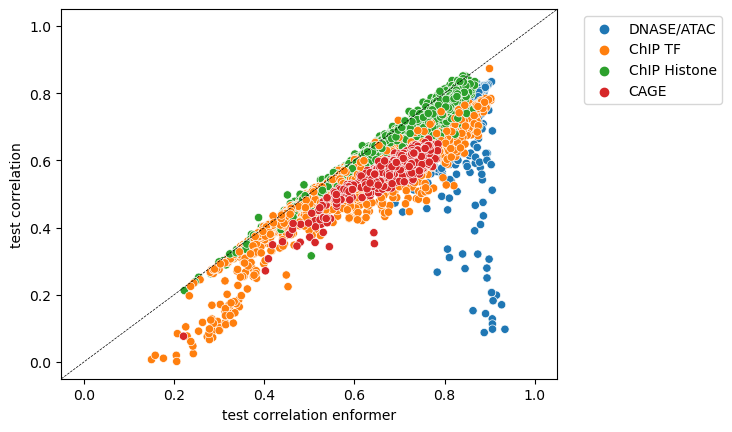
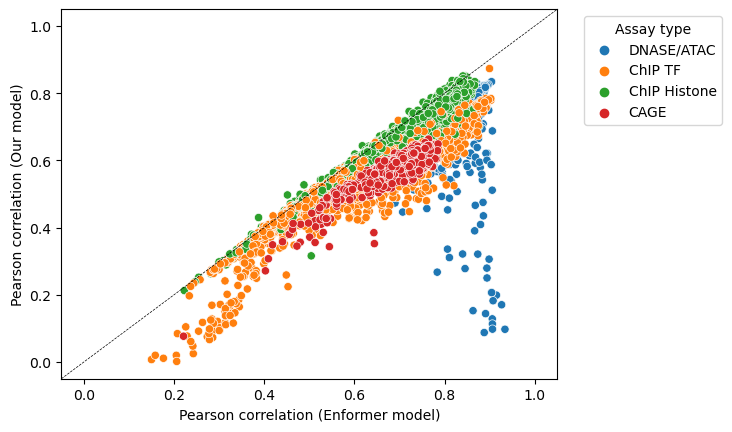
update figure

diff --git a/plot_tracks_paper/plot_enformerpytorch_dnnhead.py b/plot_tracks_paper/plot_enformerpytorch_dnnhead.py
@@ -4,11 +4,18 @@ import seaborn as sns
 import numpy as np
 import kipoiseq
 from kipoiseq import Interval
+import pytorch_lightning as pl
+import torch
+import torch.nn as nn
 import joblib
 import gzip
 import pyfaidx
 import pandas as pd
 import matplotlib as mpl
+
+device = torch.device('cuda' if torch.cuda.is_available() else 'cpu')
+print('Using device (set to GPU if available):', device)
+print(f'torch.cuda_is_available(): {torch.cuda.is_available()}\n')
 
 ### Predictions with enformer-pytorch model
 df_targets = pd.read_csv('/exports/humgen/idenhond/data/Basenji/human-targets.txt', sep = '\t')
@@ -16,13 +23,13 @@ print(df_targets.head(10))
 
 print(f'predicting with Enformer pytorch model')
 
-enformer = Enformer.from_pretrained('EleutherAI/enformer-official-rough')
+enformer = Enformer.from_pretrained('EleutherAI/enformer-official-rough') # ADD OWN MODEL
 filter_train = lambda df: df
 
 with open('seq.bed', 'w') as f:
   line = ['chr11', '35082742', '35197430']
   f.write('\t'.join(line))
- 
+
 ds = GenomeIntervalDataset(
     bed_file = './seq.bed',                       # bed file - columns 0, 1, 2 must be <chromosome>, <start position>, <end position>
     fasta_file = '/exports/humgen/idenhond/genomes/hg38.ml.fa',                        # path to fasta file
@@ -40,6 +47,80 @@ ds = GenomeIntervalDataset(
         # etc etc
     }
 )
+
+# GET EMBEDDINGS FROM THIS SEQUENCE WITH PRETRAINED MODEL
+seq = ds[0] # (196608,)
+print(seq.shape)
+pred, emb = enformer(seq, return_embeddings = True, head = 'human')
+print(emb.shape)
+
+# GET PREDICTIONS WITH DNN HEAD MODEL
+class model(pl.LightningModule):
+	def __init__(self):
+		# define model
+		super(model, self).__init__()
+		self.linear = nn.Linear(in_features = 3072, out_features = 5313, bias = True)
+		self.softplus = nn.Softplus(beta = 1, threshold = 20)	# default values for nn.Softplus()
+		self.lr = 1e-4
+		self.loss = nn.PoissonNLLLoss()
+		self.train_log = []
+		self.save_hyperparameters()
+
+	def forward(self, x):
+		# define forward pass
+		x = self.linear(x)
+		x = self.softplus(x)
+		return x
+
+	def configure_optimizers(self):
+		# define optimizer 
+		return torch.optim.Adam(self.parameters(), lr = self.lr)
+
+	def training_step(self, train_batch, batch_idx):
+		# define training loop steps
+		x, y = train_batch 
+		logits = self.forward(x)
+		loss = self.loss(logits, y)
+		self.log("train_loss", loss, on_epoch=True, prog_bar=True)
+		self.train_log.append(loss.cpu().detach().numpy())
+		# tb_logger = self.logger.experiment
+		# tb_logger.add_scalars("losses", {"train_loss": loss})
+		self.logger.experiment.add_scalars('loss', {'train': loss},self.global_step) 
+		return loss
+	
+	def test_step(self, batch, batch_idx):
+		x, y = batch
+		logits = self.forward(x)
+		test_loss = self.loss(logits, y)
+		self.log("test_loss", test_loss, on_epoch=True, prog_bar=True)
+		return test_loss
+
+	def validation_step(self, valid_batch, batch_idx):
+		# define validation loop steps
+		x, y = valid_batch
+		logits = self.forward(x)
+		val_loss = self.loss(logits, y)
+		self.log("val_loss", val_loss, prog_bar=True)
+		self.logger.experiment.add_scalars('loss', {'valid': val_loss},self.global_step)
+		# self.logger.experiment.add_scalars("losses", {"val_loss": val_loss})
+
+		return val_loss
+
+	def predict_step(self, batch, batch_idx):
+		x, y = batch
+		return self(x), y
+
+path = '/exports/humgen/idenhond/projects/enformer/dnn_head/dnn_head_train/model_2023-03-23 09:36:14.367136/epoch=18-step=5054-val_loss=0.8.ckpt'  # retrain dnn head, finished on 27/3
+print(path)
+model = model.load_from_checkpoint(path)
+model.eval().cuda()
+
+emb = emb.cuda()
+pred = model(emb)
+print(pred.shape)
+print(type(pred))
+pred = pred.detach().numpy().cpu()
+
 
 def plot_tracks(tracks, interval, name, height=1.5):
   fig, axes = plt.subplots(len(tracks), 1, figsize=(20, height * len(tracks)), sharex=True)
@@ -62,17 +143,17 @@ def plot_tracks(tracks, interval, name, height=1.5):
   plt.tight_layout()
   plt.savefig(f'{name}.png')
 
-seq = ds[0] # (196608,)
-print(seq.shape)
+# seq = ds[0] # (196608,)
+# print(seq.shape)
 
-pred = enformer(seq, head = 'human').detach().numpy()
-print(pred.shape)
+# pred = enformer(seq, head = 'human').detach().numpy()
+# print(pred.shape)
 
 tracks = {'DNASE:CD14-positive monocyte female': pred[:, 41],
           'DNASE:keratinocyte female': pred[:, 42],
           'CHIP:H3K27ac:keratinocyte female': pred[:, 706],
           'CAGE:Keratinocyte - epidermal': np.log10(1 + pred[:, 4799])}
-figname = 'test_enformer_pytorch_red'
+figname = 'test_enformer_pytorchdnnhead_red'
 
 plot_tracks(tracks, None, figname)
 

diff --git a/distribution_tracks/heatmap_correlation/plot_boxplot.py b/distribution_tracks/heatmap_correlation/plot_boxplot.py
@@ -1,0 +1,89 @@
+import matplotlib.pyplot as plt
+import seaborn as sns
+import pandas as pd
+
+# df_newtrack0 = pd.read_csv('matrix_newtrack0.csv', header = None, names = ['value'])
+
+# print(df_newtrack0)
+
+
+# sns.boxplot(data = df_newtrack0, x = 'value'  )
+# plt.xlim(-0.1, 0.1)
+# plt.savefig('test.png')
+
+
+filenames = ['matrix_newtrack0.csv', 'matrix_newtrack1.csv', 'matrix_newtrack2.csv', 
+             'matrix_newtrack3.csv', 'matrix_newtrack4.csv', 'matrix_newtrack5.csv', 
+             'matrix_newtrack6.csv', 'matrix_newtrack6.csv', 'matrix_newtrack8.csv', 
+             'matrix_newtrack9.csv', 'matrix_newtrack10.csv', 'matrix_newtrack11.csv', 
+             'matrix_newtrack12.csv', 'matrix_newtrack13.csv', 'matrix_newtrack14.csv', 
+             'matrix_newtrack15.csv', 'matrix_newtrack16.csv', 'matrix_newtrack17.csv', 
+             'matrix_newtrack18.csv', ]
+
+
+num_files = len(filenames)
+num_rows = (num_files + 3) // 4  # Round up to the nearest integer
+num_cols = 4
+
+# Create the subplot grid
+fig, axes = plt.subplots(num_rows, num_cols, figsize=(12, 8), sharex=True, sharey=True)
+
+# Flatten the axes array for easier indexing
+axes = axes.ravel()
+
+PROPS = {
+    'boxprops':{'facecolor':'none', 'edgecolor':'black'},
+    'medianprops':{'color':'black'},
+    'whiskerprops':{'color':'black'},
+    'capprops':{'color':'black'}
+}
+
+df_targets = pd.read_csv('/exports/humgen/idenhond/data/Basenji/human-targets.txt', sep = '\t', index_col = 'index')
+df_targets[['assay type', 'description2']] = df_targets.description.str.split(':', n = 1, expand = True) # make new column for assay type
+def f(row):
+    if row['assay type'] == 'CHIP':
+        if any(row['description2'].startswith(x) for x in ['H2AK', 'H2BK', 'H3K', 'H4K']): val = 'ChIP Histone'
+        else: val = 'ChIP TF'
+    elif row['assay type'] == 'DNASE' or row['assay type'] == 'ATAC': val = 'DNASE_ATAC'
+    else: val = row['assay type']
+    return val
+df_targets['assay type split ChIP'] = df_targets.apply(f, axis=1)
+print(df_targets)
+
+for i, file_name in enumerate(filenames):
+    if i < num_files:
+        df = pd.read_csv(file_name, header = None, names = ['value'])
+        
+        df['assay type'] = df_targets['assay type split ChIP']
+        print(df)
+        data = df['value']
+        
+        
+        # sns.boxplot(data = df, x='value', hue = 'assay type', orient='h', ax=axes[i], color = 'k',  **PROPS)
+        sns.boxplot(data = df, x='value',  orient='h', y = 'assay type', ax=axes[i], width = 0.8)
+        
+        axes[i].set_title(f'Track {i+1}')
+        
+        axes[i].set_xlabel('')
+        
+        # Set the x-axis label for the bottom row of plots and for track 16
+        if i >= (num_rows - 1) * num_cols:
+            axes[i].set_xlabel('Correlation')
+            axes[i].tick_params(axis='x', rotation=45) 
+
+        if i == 15:
+            axes[i].set_xlabel('Correlation')
+            axes[i].tick_params(axis='x', rotation=45) 
+
+        # axes[i].legend_.remove()
+
+        
+
+fig.suptitle('Pearson correlation coefficient between each new track and 5,313 old tracks')
+
+fig.delaxes(axes[-1])
+
+plt.tight_layout()
+plt.xlim(-0.01, 0.01)
+# plt.legend()
+plt.savefig('boxplot_correlationnewvsol_assaytype.png')

diff --git a/distribution_tracks/heatmap_correlation/boxplotvalues_correlation.py b/distribution_tracks/heatmap_correlation/boxplotvalues_correlation.py
@@ -1,0 +1,39 @@
+import matplotlib.pyplot as plt
+import seaborn as sns
+import numpy as np
+import torch
+import sys
+import pandas as pd
+
+nr = int(sys.argv[1])
+print(f'nr: {nr}')
+
+# track 1 new tracks vs all old tracks
+
+target_folder_oldtracks = '/exports/humgen/idenhond/data/Enformer_train/Enformer_train_targets'
+target_folder_newtracks = '/exports/humgen/idenhond/data/Enformer_test/Enformer_test_targets_newtracks2703'
+
+matrix_track1 = np.zeros([5313])
+
+# for each sequence, add the correlation between the new and each old track to the big matrix
+for nr_x in range(1, 1937+1): 
+    target_new = torch.load(f'{target_folder_newtracks}/targets_seq{nr_x}.pt', map_location=torch.device('cpu')).squeeze()
+    target_old = torch.load(f'{target_folder_oldtracks}/targets_seq{nr_x}.pt', map_location=torch.device('cpu')).squeeze()
+
+    # SELECT TRACK 0 - 18 --> 1-19
+    target_new_track1 = target_new[:,nr]
+
+    # correlation between track1new and each old track
+    corr_list_track1 = np.corrcoef(target_new_track1, target_old, rowvar=False)[0][1:]
+    # corr_list_track1 = corr_list_track1
+    matrix_track1 = np.add(matrix_track1, corr_list_track1)
+
+    print(nr_x)
+    # if nr_x == 1: break
+
+final_matrix_track1 = matrix_track1/nr_x
+print(f'final matrix track {nr}:')
+# print(final_matrix_track1[:10])
+# print(final_matrix_track1.shape)
+
+pd.DataFrame(final_matrix_track1).to_csv(f'matrix_newtrack{nr}.csv', header = None, index = None)

diff --git a/correlation/analyse_tracks_correlation_dnn_head.py b/correlation/analyse_tracks_correlation_dnn_head.py
@@ -95,7 +95,10 @@ print(f'mean correlation score train dnn head: {df["train correlation"].mean(axi
 plt.figure(7)
 plt.axline((0, 0), (1, 1), linewidth=0.5, color='k', linestyle = 'dashed')
 sns.scatterplot(data = df, x = 'test correlation enformer', y = 'test correlation', hue = 'assay type split ChIP')
-plt.legend(bbox_to_anchor=(1.04, 1), loc="upper left")
+plt.legend(bbox_to_anchor=(1.04, 1), loc="upper left", title = 'Assay type')
+# plt.legend(bbox_to_anchor=(0, 1.02, 1, 0.2), loc="lower left", title = 'Assay type', ncols = 4, mode = 'expand')
+plt.xlabel('Pearson correlation (Enformer model)')
+plt.ylabel('Pearson correlation (Our model)')
 plt.savefig('/exports/humgen/idenhond/projects/enformer/correlation/Plots/dnn_head/dnn_head_scatterplot_test_enformer_corr_asssaytypechip.png', bbox_inches='tight')
 
 exit()
